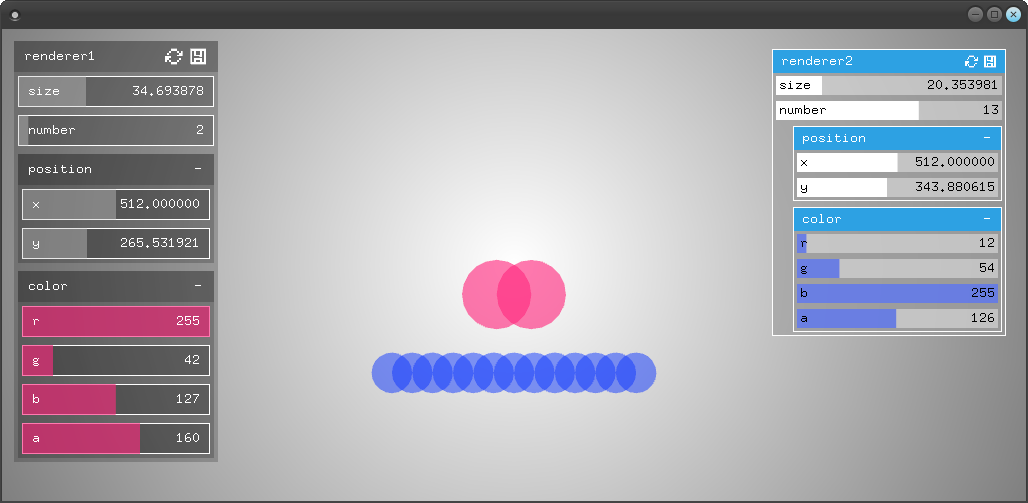
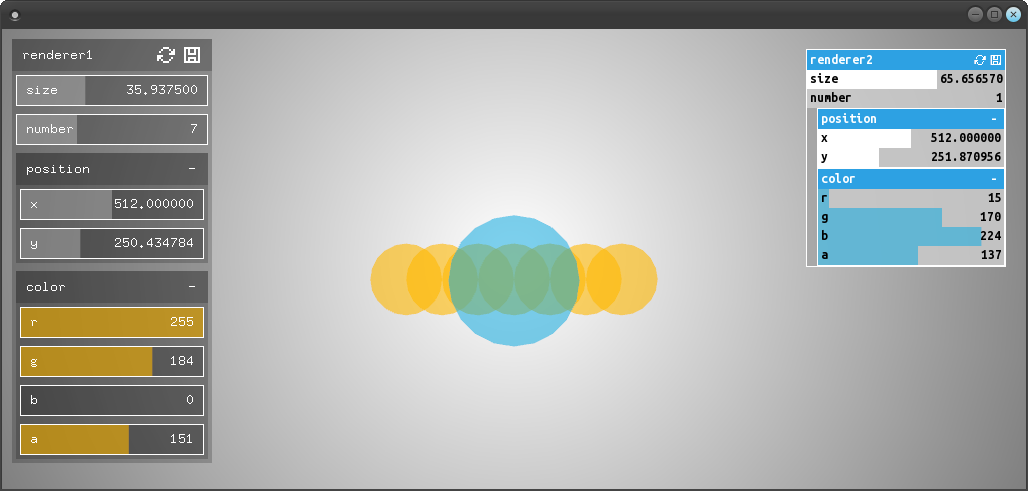
theme can now set font, updated example

diff --git a/src/ofxGuiElement.cpp b/src/ofxGuiElement.cpp
@@ -319,6 +319,21 @@ void ofxGuiElement::_setConfig(const ofJson &config){
 			setTextAlignment(val);
 		}
 
+		//parse font
+		if(_config.find("font-family") != _config.end()){
+
+			std::string family = _config["font-family"];
+			float size = fontSize;
+
+			if(_config.find("font-size") != _config.end()){
+				if(_config["font-size"].is_number()){
+					size = _config["font-size"];
+				}
+			}
+
+			loadFont(family, size);
+		}
+
 		//parse all config entries to attribute values of the element.
 		//WARNING this will crash if there are non string keys in the config
 		for (ofJson::const_iterator it = _config.begin(); it != _config.end(); ++it) {

diff --git a/exampleThemes/src/ofApp.cpp b/exampleThemes/src/ofApp.cpp
@@ -11,7 +11,8 @@ void ofApp::setup(){
 	panel1 = gui.addPanel(renderer1.parameters);
 	panel1->loadTheme("theme_default.json");
 
-	panel2 = gui.addPanel(renderer2.parameters);
+	panel2 = gui.addPanel();
+	panel2->add(renderer2.parameters);
 	panel2->loadTheme("theme_light.json");
 	panel2->setPosition(ofGetWidth()-panel2->getWidth()-20, 20);
 
